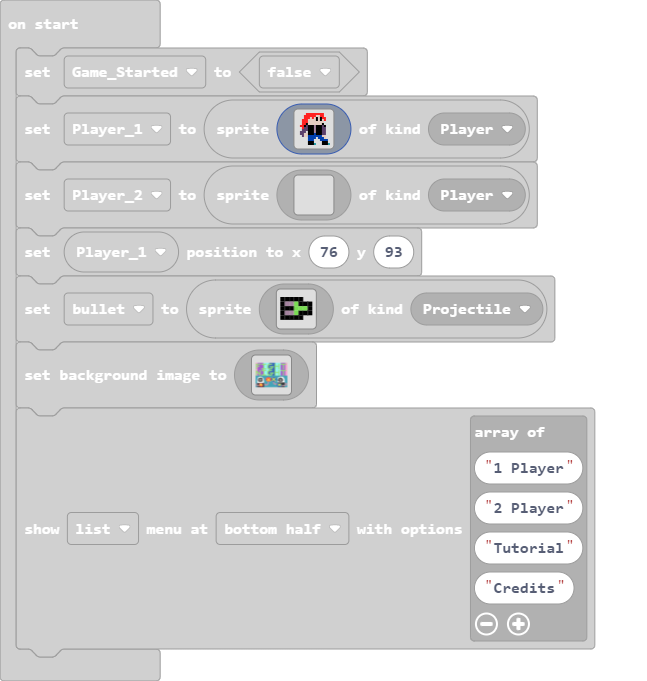
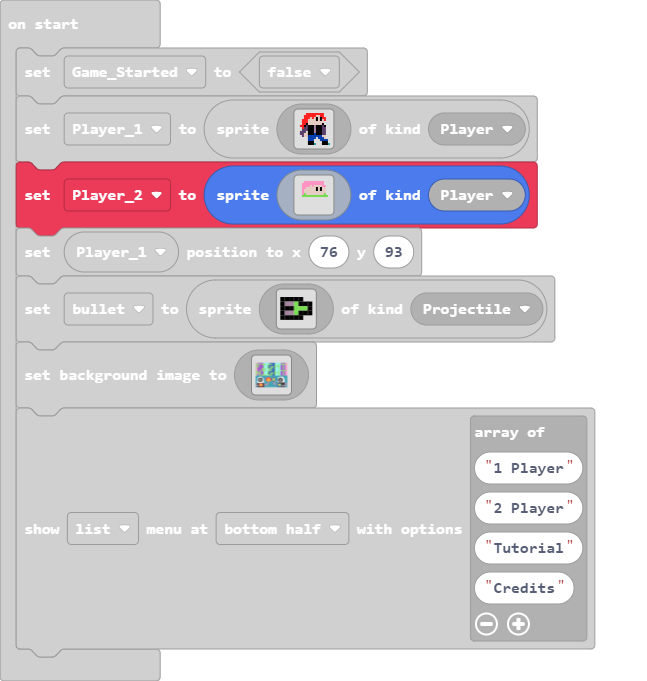
Update main.blocks, main.ts

Changed region(s): [[0.0, 0.1542, 0.8346, 0.37]]

diff --git a/main.ts b/main.ts
@@ -357,14 +357,14 @@ Player_1 = sprites.create(img`
     `, SpriteKind.Player)
 let Player_2 = sprites.create(img`
     . . . . . . . . . . . . . . . . 
-    . . . . . . . . . . . . . . . . 
-    . . . . . . . . . . . . . . . . 
-    . . . . . . . . . . . . . . . . 
-    . . . . . . . . . . . . . . . . 
-    . . . . . . . . . . . . . . . . 
-    . . . . . . . . . . . . . . . . 
-    . . . . . . . . . . . . . . . . 
-    . . . . . . . . . . . . . . . . 
+    . . . 3 3 3 3 3 3 3 3 3 3 . . . 
+    . . 3 3 3 3 3 3 3 3 3 3 3 . . . 
+    . . 3 3 3 3 d 3 d d d d 3 3 . . 
+    . . 3 3 d d d d d f d f d d . . 
+    . . 3 d d d d d d f d f d d . . 
+    . . 3 d d d d d d d d d d d . . 
+    . . 3 7 d d d d d d d d d 7 . . 
+    . . 7 7 7 7 7 7 7 7 7 7 7 7 7 . 
     . . . . . . . . . . . . . . . . 
     . . . . . . . . . . . . . . . . 
     . . . . . . . . . . . . . . . . 
